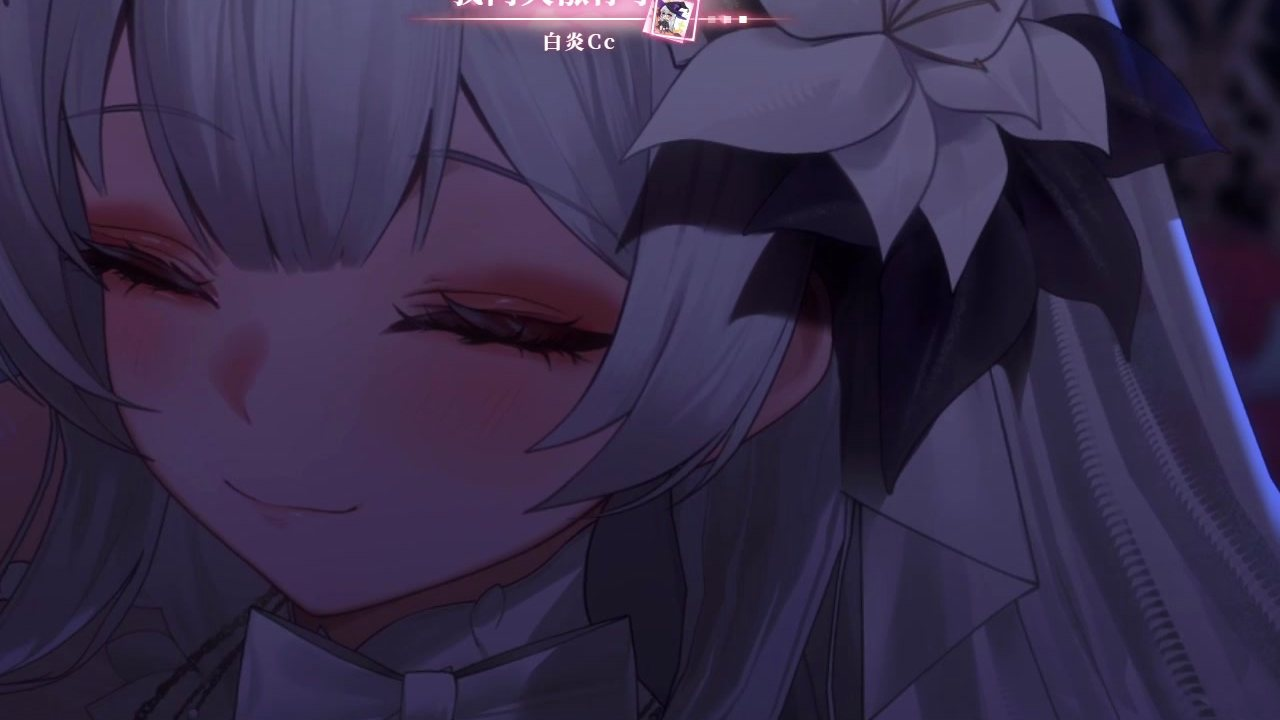
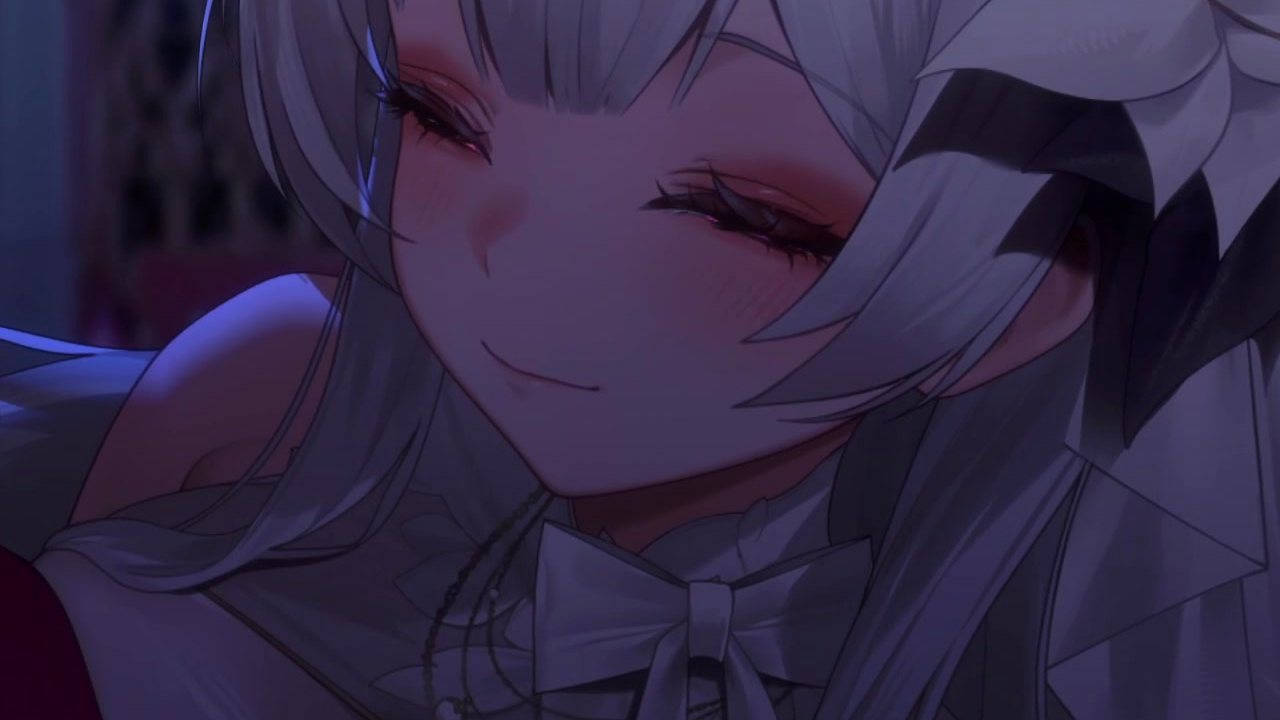
V4.7: 8 VOD CGs focused on closed eyes/low gaze

diff --git a/index.html b/index.html
@@ -120,6 +120,8 @@ img{user-select:none}
 .cg-layer[data-cg="cg_vod_4"]{background-image:url(assets/cg_vod_4.jpg)}
 .cg-layer[data-cg="cg_vod_5"]{background-image:url(assets/cg_vod_5.jpg)}
 .cg-layer[data-cg="cg_vod_6"]{background-image:url(assets/cg_vod_6.jpg)}
+.cg-layer[data-cg="cg_vod_7"]{background-image:url(assets/cg_vod_7.jpg)}
+.cg-layer[data-cg="cg_vod_8"]{background-image:url(assets/cg_vod_8.jpg)}
 .cg-layer.on{opacity:1;animation:cgZoom 9s ease-out both}
 @keyframes cgZoom{from{transform:scale(1.05)}to{transform:scale(1)}}
 .stage.cg-mode .scene,.stage.cg-mode .ambient{opacity:0}
@@ -430,10 +432,12 @@ img{user-select:none}
     <button class="cg-item" type="button" data-id="wedding"><img src="assets/f_wedding.png" alt="婚纱 · 结局"><span class="cap">婚纱 · 结局</span></button>
     <button class="cg-item" type="button" data-id="cg_vod_1"><img src="assets/cg_vod_1.jpg" alt="直播画面 · 微笑"><span class="cap">直播画面 · 微笑</span></button>
     <button class="cg-item" type="button" data-id="cg_vod_2"><img src="assets/cg_vod_2.jpg" alt="直播画面 · 闭眼"><span class="cap">直播画面 · 闭眼</span></button>
-    <button class="cg-item" type="button" data-id="cg_vod_3"><img src="assets/cg_vod_3.jpg" alt="直播画面 · 凝视"><span class="cap">直播画面 · 凝视</span></button>
+    <button class="cg-item" type="button" data-id="cg_vod_3"><img src="assets/cg_vod_3.jpg" alt="直播画面 · 低眸"><span class="cap">直播画面 · 低眸</span></button>
     <button class="cg-item" type="button" data-id="cg_vod_4"><img src="assets/cg_vod_4.jpg" alt="直播画面 · 抬眸"><span class="cap">直播画面 · 抬眸</span></button>
-    <button class="cg-item" type="button" data-id="cg_vod_5"><img src="assets/cg_vod_5.jpg" alt="直播画面 · 温柔"><span class="cap">直播画面 · 温柔</span></button>
+    <button class="cg-item" type="button" data-id="cg_vod_5"><img src="assets/cg_vod_5.jpg" alt="直播画面 · 花影"><span class="cap">直播画面 · 花影</span></button>
     <button class="cg-item" type="button" data-id="cg_vod_6"><img src="assets/cg_vod_6.jpg" alt="直播画面 · 浅笑"><span class="cap">直播画面 · 浅笑</span></button>
+    <button class="cg-item" type="button" data-id="cg_vod_7"><img src="assets/cg_vod_7.jpg" alt="直播画面 · 沉静"><span class="cap">直播画面 · 沉静</span></button>
+    <button class="cg-item" type="button" data-id="cg_vod_8"><img src="assets/cg_vod_8.jpg" alt="直播画面 · 静听"><span class="cap">直播画面 · 静听</span></button>
     <button class="cg-item emoji" type="button" data-id="emoji_smile"><img src="assets/emoji_smile.webp" alt="表情 · 微笑"><span class="cap">表情 · 微笑</span></button>
     <button class="cg-item emoji" type="button" data-id="emoji_shy"><img src="assets/emoji_shy.webp" alt="表情 · 害羞"><span class="cap">表情 · 害羞</span></button>
     <button class="cg-item emoji" type="button" data-id="emoji_laugh"><img src="assets/emoji_laugh.webp" alt="表情 · 爆笑"><span class="cap">表情 · 爆笑</span></button>
@@ -467,7 +471,7 @@ img{user-select:none}
 
   <div class="toast" id="toast" role="status" aria-live="polite"></div>
 
-<script id="story-data" type="application/json">[{"id":"start","scene":1,"spr":0,"who":"","text":"深夜十一点半，一条冷门的直播推荐把你带进了一个只有三十几个人的直播间。\n画面里，银发的女孩抱着麦克风，一只黑蝙蝠趴在她肩头，懒洋洋地打了个哈欠。","next":"open2","chapter":"序章 · 深夜的直播间"},{"id":"open2","scene":1,"spr":0,"who":"","text":"她唱完最后一句，尾音在安静的房间里飘了一会儿才落下。补光灯把她的睫毛照得很长，弹幕稀稀拉拉地滚过去。","next":"open3"},{"id":"open3","scene":1,"spr":1,"who":"綾Lune","text":"「晚上好呀……今天也有人陪我呢，阿里嘎多。」她把麦克风往怀里收了收，笑起来的时候，声音软软的。","next":"open4"},{"id":"open4","scene":1,"spr":1,"who":"綾Lune","text":"「弹幕我看看哦——」她低头凑近屏幕，忽然顿住，「呀，这个ID，我好像见过你诶。」","next":"open5"},{"id":"open5","scene":1,"spr":0,"who":"","text":"她歪了歪头，肩上的黑蝙蝠也跟着歪了歪脑袋。\n你握着手机，心跳莫名漏了一拍——她怎么会记得你？","next":"open6"},{"id":"open6","scene":1,"spr":0,"who":"","text":"弹幕里没有一个人接话。她却还保持着那个姿势，眼睛一眨不眨地看着镜头，像在等你说点什么。","next":"c1","cg":"assets/cg_vod_1.jpg"},{"id":"c1","scene":1,"spr":1,"who":"綾Lune","text":"「那个……」她托着腮，耳朵尖有点红，「要不要，先跟主播说句话呀？就一句，也可以的哦。」","choices":[{"text":"在弹幕里跟她打招呼","hp":2,"next":"c1_a1"},{"text":"默默潜水，把这首听完","hp":0,"next":"c1_b1"}]},{"id":"c1_a1","scene":1,"spr":0,"who":"","text":"你敲下一行\"晚上好，刚才那首歌很好听\"，按下发送。弹幕轻飘飘地滚过去，她却一眼就看见了。","next":"c1_a2"},{"id":"c1_a2","scene":1,"spr":1,"who":"綾Lune","text":"「哇——被夸啦！」她双手合十，笑得眼睛都弯了，「谢谢宝宝，阿里嘎多。今天没白唱呢，哈哈。」","next":"join1"},{"id":"c1_b1","scene":1,"spr":0,"who":"","text":"你把输入框里的字一个个删掉，只把音量调大了一格。\n屏幕那头，她继续唱，唱着唱着，声音忽然轻了一点。","next":"c1_b2"},{"id":"c1_b2","scene":1,"spr":1,"who":"綾Lune","text":"「今天有位观众，从头陪到尾呢。」她对着镜头笑，眼睛弯成月牙，「虽然没说话，但我看见啦。谢谢呀，下次也要来哦。」","next":"join1"},{"id":"join1","scene":1,"spr":0,"who":"","text":"下播前十分钟，她把椅子往前挪了挪，说想再念一遍弹幕。","next":"bridge1"},{"id":"bridge1","scene":1,"spr":1,"who":"綾Lune","text":"「最后再唱一首吧。你们点——」她顿了顿，伸出食指晃了晃，「不过只准点我唱得好的那几首哦，不许刁难主播。」","next":"c2"},{"id":"c2","scene":1,"spr":1,"who":"綾Lune","text":"「来嘛，宝宝，点一首呀。」她抱着麦克风，眼睛亮亮地盯着屏幕，「今天想听什么？」","choices":[{"text":"接她的梗，跟她聊起来","hp":3,"next":"c2_a1"},{"text":"认真夸她，说转音特别好听","hp":2,"next":"c2_b1"},{"text":"打趣：来都来了，投个币呗","hp":1,"next":"c2_c1"}]},{"id":"c2_a1","scene":1,"spr":0,"who":"","text":"你回了一句玩笑：\"那就点一首你唱跑调的。\"\n弹幕瞬间炸开，一排\"哈哈哈哈\"刷了满屏。","next":"c2_a2"},{"id":"c2_a2","scene":1,"spr":1,"who":"綾Lune","text":"「天呐！你、你怎么知道我会跑调呀——」她捂着嘴笑得肩膀发抖，好半天才缓过来，「呜呜，被宝宝抓到把柄啦。」","next":"c2_a3"},{"id":"c2_a3","scene":1,"spr":1,"who":"綾Lune","text":"「不行，这个仇我记下了呢。」她清了清嗓子，故意把第一个音唱歪，然后自己先笑场。\n那半分钟，直播间好像一下子暖了起来。","next":"join2"},{"id":"c2_b1","scene":1,"spr":0,"who":"","text":"你没接梗，只认认真真打下一行字：\"刚才那首，转音的地方特别好听。\"","next":"c2_b2"},{"id":"c2_b2","scene":1,"spr":1,"who":"綾Lune","text":"她盯着那行字看了两秒，耳朵慢慢红了。「……阿里嘎多。」她低头拨了拨琴弦，声音轻下来，「你听得真仔细呢。」","next":"join2"},{"id":"c2_c1","scene":1,"spr":0,"who":"","text":"你半开玩笑地打字：\"主播，来都来了，投个币能点歌吗？\"\n她先是假装板起脸，眉毛都竖起来了。","next":"c2_c2"},{"id":"c2_c2","scene":1,"spr":1,"who":"綾Lune","text":"「哈哈哈，你倒是会做生意呀。」她鼓了鼓腮帮，还是没绷住笑，「行吧，这位老板，这首送你——记得常来哦。」","next":"join2"},{"id":"join2","scene":1,"spr":1,"who":"綾Lune","text":"「好啦，今天的直播就到这里。」她关掉伴奏，冲镜头挥挥手，「晚安呀，宝宝们。」","next":"msg1","variants":[{"minHp":4,"text":"「好啦，今天的直播就到这里。」她关掉伴奏，冲镜头挥挥手，「晚安呀，宝宝们。」\n关播前她又补了一句：「明天也来哦，我等你。」"}]},{"id":"msg1","scene":2,"spr":0,"who":"","text":"下播后，你正准备关掉手机，私信栏忽然跳出一个红点。\n头像是一轮细细的月亮。","next":"msg2"},{"id":"msg2","scene":2,"spr":0,"who":"","text":"是綾Lune：「今天谢谢你呀，还没睡吗？」","next":"msg3"},{"id":"msg3","scene":2,"spr":1,"who":"綾Lune","text":"你回了句\"睡不着\"。对面几乎秒回：「那正好，我也睡不着呢。陪我说说话，好不好？」","next":"c3","variants":[{"minHp":4,"text":"你回了句\"睡不着\"。对面几乎秒回：「那正好，我也睡不着呢。陪我说说话，好不好？」\n「其实我在等的人，好像一直都是你。」"},{"maxHp":1,"text":"你回了句\"睡不着\"。对面几乎秒回：「那正好，我也睡不着呢。陪我说说话，好不好？」\n对面安静了一会儿，才发来一句：「……要是不方便的话，也不用勉强。」"}]},{"id":"c3","scene":2,"spr":1,"who":"綾Lune","text":"「我啊……其实每天下播都睡不着呢。」她发来一条语音，背景里只有很轻的电流声，「灯一关，房间就好安静好安静，安静得吓人。」","choices":[{"text":"温柔地接住她的每一句话","hp":4,"next":"c3_a1"},{"text":"适当保持一点距离","hp":1,"next":"c3_b1"},{"text":"略带暧昧地试探一句","hp":3,"next":"c3_c1"}]},{"id":"c3_a1","scene":2,"spr":0,"who":"","text":"你一句一句地回她。她说直播间的压力，说那些没人听她唱歌的晚上，说肩头那只叫\"小蝠\"的黑蝙蝠。","next":"c3_a2"},{"id":"c3_a2","scene":2,"spr":1,"who":"綾Lune","text":"「其实我不太敢跟别人说这些的。」她打字打得很慢，「但是跟你说，好像没关系呢。」","next":"c3_a3"},{"id":"c3_a3","scene":2,"spr":1,"who":"綾Lune","text":"过了很久，她发来一句：「……你真好。」\n隔了几秒，又补上一句：「要是你能一直听我说话，就好了。」","next":"join3"},{"id":"c3_b1","scene":2,"spr":0,"who":"","text":"你回得不快不慢，斟酌着每一句话，连\"早点休息\"都写得客客气气。","next":"c3_b2"},{"id":"c3_b2","scene":2,"spr":1,"who":"綾Lune","text":"「……好呀，那不打扰你啦。」她回得很快，快得像是早就准备好了这句话。\n那个红点安静下去，像一盏被人关掉的灯。","next":"join3"},{"id":"c3_c1","scene":2,"spr":0,"who":"","text":"你半开玩笑地问：\"那我算不算你的特别观众？\"\n输入框上方\"对方正在输入\"亮了又灭，灭了又亮。","next":"c3_c2"},{"id":"c3_c2","scene":2,"spr":1,"who":"綾Lune","text":"「别、别撩我呀……」她发来一个慌乱的系统表情。\n过了一会儿，又补上一句：「……不过，我不讨厌呢。」","next":"join3"},{"id":"join3","scene":2,"spr":0,"who":"","text":"那天之后，你开始留意她开播的时间。\n像是有一根很细的线，把深夜的两端连在了一起。","next":"daily1","chapter":"第一幕 · 私信里的她"},{"id":"daily1","scene":1,"spr":1,"who":"","text":"之后的几个晚上，你几乎都准时出现。\n她开始在开播前给你发一句：「今天也来吗？」","next":"daily2"},{"id":"daily2","scene":2,"spr":1,"who":"綾Lune","text":"「要是哪天你没来……」某次下播后，她忽然说，「我可能会对着空直播间，唱一整晚呢。」\n她说完自己先笑了，但你看得出来，她不是在开玩笑。","next":"d0","variants":[{"minHp":8,"text":"「要是哪天你没来……」某次下播后，她忽然说，「我可能会对着空直播间，唱一整晚呢。」\n她说完自己先笑了，但你看得出来，她不是在开玩笑。\n她顿了顿，又发来一段语音，声音压得很低：「……所以你要是来，记得在弹幕里叫一声我的名字，好不好？」"},{"maxHp":4,"text":"「要是哪天你没来……」某次下播后，她忽然说，「我可能会对着空直播间，唱一整晚呢。」\n她说完自己先笑了，可那笑声很快就停住。「……算了，你就当我随便说说。」"}]},{"id":"d0","scene":2,"spr":0,"who":"","text":"几天后，她发来一条直播预告：周末想找个人连麦，一起唱几首歌。","next":"d1","chapter":"第二幕 · 连麦之夜"},{"id":"d1","scene":1,"spr":0,"who":"","text":"到了那晚，直播间的人比平时多得多。弹幕刷得飞快，她却一条也没有念。","next":"d1b","variants":[{"minHp":6,"text":"到了那晚，直播间的人比平时多得多。弹幕刷得飞快，她却一条也没有念。\n有人问她在等谁，她只是笑，没有回答。"},{"maxHp":3,"text":"到了那晚，直播间的人比平时多得多。弹幕刷得飞快，她念了几条，又很快放下手机。\n像是在确认某个名字有没有出现。"}]},{"id":"d1b","scene":1,"spr":0,"who":"","text":"你在私信里看见她发来两个字：「你来吗？」后面跟着一个小小的月亮表情。","next":"d2"},{"id":"d2","scene":1,"spr":1,"who":"綾Lune","text":"「不着急哦，我等你。」她嘴上这么说，尾音却越拖越短，「要是……你不想来，也没关系的啦。」","next":"c4","variants":[{"minHp":6,"text":"「不着急哦，我等你。」她嘴上这么说，尾音却越拖越短，「要是……你不想来，也没关系的啦。」\n她说完又立刻补一句：「啊、我不是在催你哦！真的！」"},{"maxHp":3,"text":"「不着急哦，我等你。」她嘴上这么说，尾音却越拖越短，「要是……你不想来，也没关系的啦。」\n那句“没关系的啦”后面，隔了很久才跟上一个句号。"}]},{"id":"c4","scene":1,"spr":1,"who":"綾Lune","text":"屏幕上，连麦的邀请框亮着。她安静地坐在镜头前，手指一下一下地敲着桌面。","choices":[{"text":"答应，为她准备一下","hp":3,"next":"c4_a1"},{"text":"有点犹豫，婉拒了","hp":1,"next":"c4_b1"}]},{"id":"c4_a1","scene":1,"spr":0,"who":"","text":"你答应下来，翻出她唱过的所有歌单，把最喜欢的那几首悄悄练了一遍。","next":"c4_a2"},{"id":"c4_a2","scene":1,"spr":1,"who":"綾Lune","text":"连麦那晚，她唱了一首很温柔的歌给你听。\n结束后她小声问：「下次……还能找你吗？」你说可以，她笑得像偷偷藏了颗糖。","next":"join4"},{"id":"c4_b1","scene":1,"spr":0,"who":"","text":"你回了句\"那天可能有事\"，她的\"正在输入\"亮了很久，最后只发来一句「嗯，我懂的。」","next":"c4_b2"},{"id":"c4_b2","scene":1,"spr":0,"who":"","text":"那晚的连麦，她一个人唱到了最后。\n下播后，她给你发消息的次数，明显少了一些。","next":"join4"},{"id":"join4","scene":1,"spr":0,"who":"","text":"那段时间，你们之间好像多了一点只有彼此知道的默契。","next":"post1","variants":[{"minHp":6,"text":"那段时间，你们之间好像多了一点只有彼此知道的默契。\n回房间之后，你把那一晚的录播翻出来看了两遍。"},{"maxHp":2,"text":"那段时间，你们之间好像多了一点说不清的距离。\n你偶尔会想起她敲桌面的那一下一下，却想不起自己当时该说什么。"}]},{"id":"post1","scene":2,"spr":1,"who":"","text":"那之后，她给你寄来一张明信片。背面是手写的地址，和一句话：「谢谢你愿意听我唱歌。」\n邮戳上的日期，是你第一次进她直播间的那个星期。","next":"post2"},{"id":"post2","scene":2,"spr":1,"who":"綾Lune","text":"「收到啦？」当晚她私信你，语气装作不在意，「……别笑我字丑哦。我还画了一只小蝠，你认出来没有？」","next":"e1","variants":[{"minHp":10,"text":"「收到啦？」当晚她私信你，语气装作不在意，「……别笑我字丑哦。我还画了一只小蝠，你认出来没有？」\n「对了，邮局的人问我寄给谁，我说——寄给一个会听我唱歌的人。」"}]},{"id":"e1","scene":1,"spr":0,"who":"","text":"转折发生在一个很平常的晚上。\n你在她的弹幕里随口提了一句别的主播的名字，说那边也在唱歌，\"还挺好听的\"。","next":"e1b","chapter":"第三幕 · 不经意的名字"},{"id":"e1b","scene":1,"spr":0,"who":"","text":"弹幕里有人跟着起哄，说\"别家确实更好听\"。她握着麦克风的手，停在了半空。","next":"e2"},{"id":"e2","scene":1,"spr":0,"who":"","text":"弹幕区安静了三秒。\n她低头调了调麦克风，指节在灯光下泛着白。","next":"e3"},{"id":"e3","scene":1,"spr":1,"who":"綾Lune","text":"「……这样啊。」她笑了一下，没有接话，唱完了整首歌。\n声音比平时低了很多。","next":"c5"},{"id":"c5","scene":2,"spr":1,"who":"綾Lune","text":"下播后，她私信你：「你……喜欢看别人的直播吗？」\n句尾没有语气词。那条消息的\"正在输入\"，删删改改了很久。","choices":[{"text":"顺着她，赶紧道歉哄她","hp":3,"next":"c5_a1"},{"text":"觉得气氛不对，想拉开距离","hp":1,"next":"c5_b1"},{"text":"冷静地讲道理：观众是自由的","hp":0,"next":"c5_c1"}]},{"id":"c5_a1","scene":2,"spr":0,"who":"","text":"你立刻道歉，说只是随口一提，屏幕这边你只看着她一个人。","next":"c5_a2"},{"id":"c5_a2","scene":2,"spr":1,"who":"綾Lune","text":"她闷了很久，才回：「……我不许你看别人。」\n过了一会儿又软下来，「只准看我，好不好呀？我、我会一直唱给你听的。」","next":"join5"},{"id":"c5_b1","scene":2,"spr":0,"who":"","text":"你回了句\"别想太多，我只听歌\"，然后把手机扣在桌上。","next":"c5_b2"},{"id":"c5_b2","scene":2,"spr":1,"who":"綾Lune","text":"她安静了很久，久到你以为她睡了，才等来一句：「……好，我知道了。」\n那之后她照常开播，只是不再喊你的ID，也不再主动私信你。","next":"join5"},{"id":"c5_c1","scene":2,"spr":0,"who":"","text":"你认真解释，喜欢听谁唱歌是你的自由，希望她不要多想。","next":"c5_c2"},{"id":"c5_c2","scene":2,"spr":1,"who":"綾Lune","text":"她只回了一个「嗯」。\n可那之后，她的直播间在深夜还亮着灯，却不再喊你的ID了。","next":"join5"},{"id":"join5","scene":1,"spr":0,"who":"","text":"又一场深夜直播。这一次，她没有唱歌。","next":"f1","variants":[{"minHp":10,"text":"又一场深夜直播。这一次，她没有唱歌。\n镜头里的她把下巴抵在麦克风上，抱膝坐着，像在等你先开口。"},{"maxHp":5,"text":"又一场深夜直播。这一次，她没有唱歌。\n她安静地坐在镜头前，偶尔看一眼私信列表，又很快移开视线。"}],"chapter":"终幕 · 摊牌前夜","cg":"assets/cg_vod_3.jpg"},{"id":"f1","scene":2,"spr":0,"who":"","text":"下播后，她发来一条语音：「……能留一下吗？我有话想说。」","next":"f2","variants":[{"minHp":8,"text":"下播后，她发来一条语音：「……能留一下吗？我有话想说。」\n语音里很安静，安静得能听见她几次想开口、又停下来。"},{"maxHp":3,"text":"下播后，她发来一条语音：「……能留一下吗？我有话想说。」\n语音只有十秒，末尾是长长的一段沉默。"}],"cg":"assets/cg_vod_4.jpg"},{"id":"f2","scene":2,"spr":1,"who":"綾Lune","text":"语音的背景音里，那只黑蝙蝠轻轻叫了一声。「我大概知道，这样不对呢。」她顿了顿。","next":"f3","variants":[{"minHp":8,"text":"语音的背景音里，那只黑蝙蝠轻轻叫了一声。「我大概知道，这样不对呢。」她顿了顿。\n「我先说好，我不是在怪你。」"},{"maxHp":3,"text":"语音的背景音里，那只黑蝙蝠轻轻叫了一声。「我大概知道，这样不对呢。」她顿了顿。\n「……算了，可能是我太贪心了。」"}]},{"id":"f3","scene":2,"spr":1,"who":"綾Lune","text":"「可是我一想到你在别人的直播间里，我就……我就唱不下去呀。」她吸了吸鼻子，「对不起，我是不是很奇怪？」","next":"c6","variants":[{"minHp":11,"text":"「可是我一想到你在别人的直播间里，我就……我就唱不下去呀。」她吸了吸鼻子，「对不起，我是不是很奇怪？」\n「我不太会说好听的话……」她的声音闷闷的，「但我是真的，很想留住你。」"},{"maxHp":5,"text":"「可是我一想到你在别人的直播间里，我就……我就唱不下去呀。」她吸了吸鼻子，「对不起，我是不是很奇怪？」\n「如果……如果你其实没有那么多话想跟我说，也没关系的。」"}]},{"id":"c6","scene":2,"spr":1,"who":"綾Lune","text":"「那你呢？」她沉默了很久，声音轻得像怕惊动什么，「你要怎么选。」","choices":[{"text":"把心意说开，认真面对她","hp":0,"route":"talk","next":"route_talk_1"},{"text":"答应她：以后只来你的直播间","hp":0,"route":"stay","next":"route_stay_1"},{"text":"说一句抱歉，然后退出这场纠缠","hp":0,"route":"flee","next":"route_flee_1"}]},{"id":"route_talk_1","scene":2,"spr":0,"who":"","text":"你深吸一口气，把藏了很久的话一句一句说出口。\n屏幕那头安静得能听见电流的细响。","next":"route_talk_2","variants":[{"minHp":10,"text":"你深吸一口气，把藏了很久的话一句一句说出口。\n屏幕那头安静得能听见电流的细响。\n说到一半你停了停，怕自己说得太多。"},{"maxHp":5,"text":"你深吸一口气，把藏了很久的话一句一句说出口。\n屏幕那头安静得能听见电流的细响。\n话一出口，你就有点后悔——她好像比你更先一步低下了头。"}],"cg":"assets/cg_vod_5.jpg"},{"id":"route_talk_2","scene":2,"spr":1,"who":"綾Lune","text":"「……你说真的呀？」她的声音有一点发抖，\n「我、我一直以为，只有我一个人在偷偷喜欢呢。」\n她顿了顿，又轻轻补了一句：「这次……换我先说，好不好？」","next":"__ending__","variants":[{"minHp":13,"text":"「……你说真的呀？」她的声音有一点发抖，\n「我、我一直以为，只有我一个人在偷偷喜欢呢。」\n她顿了顿，又轻轻补了一句：「这次……换我先说，好不好？」\n她说着说着，声音越来越小，最后小声补了一句：「……不许笑我。」"}]},{"id":"route_stay_1","scene":2,"spr":0,"who":"","text":"你说，以后只来她的直播间。\n她愣了很长一会儿，然后终于笑起来，眼睛弯弯的。","next":"route_stay_2","variants":[{"minHp":10,"text":"你说，以后只来她的直播间。\n她愣了很长一会儿，然后终于笑起来，眼睛弯弯的。\n你说这话的时候，自己也有点意外。"},{"maxHp":5,"text":"你说，以后只来她的直播间。\n她愣了很长一会儿，然后终于笑起来，眼睛弯弯的。\n她笑了，可你分不清那是开心，还是终于松了一口气。"}],"cg":"assets/cg_vod_6.jpg"},{"id":"route_stay_2","scene":2,"spr":1,"who":"綾Lune","text":"「那说好了哦。」她伸出小指，对着镜头晃了晃，\n「拉钩。骗人的话……我会难过的呀。」\n直播结束后，她把拉过钩的那只手贴在胸口，很久都没有放下。","next":"__ending__","variants":[{"minHp":13,"text":"「那说好了哦。」她伸出小指，对着镜头晃了晃，\n「拉钩。骗人的话……我会难过的呀。」\n直播结束后，她把拉过钩的那只手贴在胸口，很久都没有放下。\n她偷偷把这一晚的录播存了下来，文件名是「不能说的今天」。"}]},{"id":"route_flee_1","scene":2,"spr":0,"who":"","text":"你打下一句\"抱歉\"，然后按灭了屏幕。\n黑暗里，那轮细细的月亮还亮着。","next":"route_flee_2","variants":[{"minHp":10,"text":"你打下一句\"抱歉\"，然后按灭了屏幕。\n黑暗里，那轮细细的月亮还亮着。\n按灭之前，你看见她的头像还亮着，输入框亮了一下，又暗下去。"},{"maxHp":5,"text":"你打下一句\"抱歉\"，然后按灭了屏幕。\n黑暗里，那轮细细的月亮还亮着。\n你盯着黑掉的屏幕看了很久，才想起该把手机放下。"}],"cg":"assets/cg_vod_2.jpg"},{"id":"route_flee_2","scene":2,"spr":0,"who":"","text":"后来你换了一个新账号。\n她的直播间还是深夜亮着灯，只是你再也没有点进去过。\n再后来，你习惯了新的深夜。","next":"__ending__","variants":[{"minHp":10,"text":"后来你换了一个新账号。\n她的直播间还是深夜亮着灯，只是你再也没有点进去过。\n再后来，你习惯了新的深夜。\n后半夜，你收到她发来的一条语音。只有三秒，是她在轻轻哼那首没唱完的歌。"}]},{"id":"__ending__","final":true}]</script>
+<script id="story-data" type="application/json">[{"id":"start","scene":1,"spr":0,"who":"","text":"深夜十一点半，一条冷门的直播推荐把你带进了一个只有三十几个人的直播间。\n画面里，银发的女孩抱着麦克风，一只黑蝙蝠趴在她肩头，懒洋洋地打了个哈欠。","next":"open2","chapter":"序章 · 深夜的直播间"},{"id":"open2","scene":1,"spr":0,"who":"","text":"她唱完最后一句，尾音在安静的房间里飘了一会儿才落下。补光灯把她的睫毛照得很长，弹幕稀稀拉拉地滚过去。","next":"open3","cg":"assets/cg_vod_8.jpg"},{"id":"open3","scene":1,"spr":1,"who":"綾Lune","text":"「晚上好呀……今天也有人陪我呢，阿里嘎多。」她把麦克风往怀里收了收，笑起来的时候，声音软软的。","next":"open4"},{"id":"open4","scene":1,"spr":1,"who":"綾Lune","text":"「弹幕我看看哦——」她低头凑近屏幕，忽然顿住，「呀，这个ID，我好像见过你诶。」","next":"open5"},{"id":"open5","scene":1,"spr":0,"who":"","text":"她歪了歪头，肩上的黑蝙蝠也跟着歪了歪脑袋。\n你握着手机，心跳莫名漏了一拍——她怎么会记得你？","next":"open6"},{"id":"open6","scene":1,"spr":0,"who":"","text":"弹幕里没有一个人接话。她却还保持着那个姿势，眼睛一眨不眨地看着镜头，像在等你说点什么。","next":"c1","cg":"assets/cg_vod_1.jpg"},{"id":"c1","scene":1,"spr":1,"who":"綾Lune","text":"「那个……」她托着腮，耳朵尖有点红，「要不要，先跟主播说句话呀？就一句，也可以的哦。」","choices":[{"text":"在弹幕里跟她打招呼","hp":2,"next":"c1_a1"},{"text":"默默潜水，把这首听完","hp":0,"next":"c1_b1"}]},{"id":"c1_a1","scene":1,"spr":0,"who":"","text":"你敲下一行\"晚上好，刚才那首歌很好听\"，按下发送。弹幕轻飘飘地滚过去，她却一眼就看见了。","next":"c1_a2"},{"id":"c1_a2","scene":1,"spr":1,"who":"綾Lune","text":"「哇——被夸啦！」她双手合十，笑得眼睛都弯了，「谢谢宝宝，阿里嘎多。今天没白唱呢，哈哈。」","next":"join1"},{"id":"c1_b1","scene":1,"spr":0,"who":"","text":"你把输入框里的字一个个删掉，只把音量调大了一格。\n屏幕那头，她继续唱，唱着唱着，声音忽然轻了一点。","next":"c1_b2"},{"id":"c1_b2","scene":1,"spr":1,"who":"綾Lune","text":"「今天有位观众，从头陪到尾呢。」她对着镜头笑，眼睛弯成月牙，「虽然没说话，但我看见啦。谢谢呀，下次也要来哦。」","next":"join1"},{"id":"join1","scene":1,"spr":0,"who":"","text":"下播前十分钟，她把椅子往前挪了挪，说想再念一遍弹幕。","next":"bridge1"},{"id":"bridge1","scene":1,"spr":1,"who":"綾Lune","text":"「最后再唱一首吧。你们点——」她顿了顿，伸出食指晃了晃，「不过只准点我唱得好的那几首哦，不许刁难主播。」","next":"c2"},{"id":"c2","scene":1,"spr":1,"who":"綾Lune","text":"「来嘛，宝宝，点一首呀。」她抱着麦克风，眼睛亮亮地盯着屏幕，「今天想听什么？」","choices":[{"text":"接她的梗，跟她聊起来","hp":3,"next":"c2_a1"},{"text":"认真夸她，说转音特别好听","hp":2,"next":"c2_b1"},{"text":"打趣：来都来了，投个币呗","hp":1,"next":"c2_c1"}]},{"id":"c2_a1","scene":1,"spr":0,"who":"","text":"你回了一句玩笑：\"那就点一首你唱跑调的。\"\n弹幕瞬间炸开，一排\"哈哈哈哈\"刷了满屏。","next":"c2_a2"},{"id":"c2_a2","scene":1,"spr":1,"who":"綾Lune","text":"「天呐！你、你怎么知道我会跑调呀——」她捂着嘴笑得肩膀发抖，好半天才缓过来，「呜呜，被宝宝抓到把柄啦。」","next":"c2_a3"},{"id":"c2_a3","scene":1,"spr":1,"who":"綾Lune","text":"「不行，这个仇我记下了呢。」她清了清嗓子，故意把第一个音唱歪，然后自己先笑场。\n那半分钟，直播间好像一下子暖了起来。","next":"join2"},{"id":"c2_b1","scene":1,"spr":0,"who":"","text":"你没接梗，只认认真真打下一行字：\"刚才那首，转音的地方特别好听。\"","next":"c2_b2"},{"id":"c2_b2","scene":1,"spr":1,"who":"綾Lune","text":"她盯着那行字看了两秒，耳朵慢慢红了。「……阿里嘎多。」她低头拨了拨琴弦，声音轻下来，「你听得真仔细呢。」","next":"join2"},{"id":"c2_c1","scene":1,"spr":0,"who":"","text":"你半开玩笑地打字：\"主播，来都来了，投个币能点歌吗？\"\n她先是假装板起脸，眉毛都竖起来了。","next":"c2_c2"},{"id":"c2_c2","scene":1,"spr":1,"who":"綾Lune","text":"「哈哈哈，你倒是会做生意呀。」她鼓了鼓腮帮，还是没绷住笑，「行吧，这位老板，这首送你——记得常来哦。」","next":"join2"},{"id":"join2","scene":1,"spr":1,"who":"綾Lune","text":"「好啦，今天的直播就到这里。」她关掉伴奏，冲镜头挥挥手，「晚安呀，宝宝们。」","next":"msg1","variants":[{"minHp":4,"text":"「好啦，今天的直播就到这里。」她关掉伴奏，冲镜头挥挥手，「晚安呀，宝宝们。」\n关播前她又补了一句：「明天也来哦，我等你。」"}]},{"id":"msg1","scene":2,"spr":0,"who":"","text":"下播后，你正准备关掉手机，私信栏忽然跳出一个红点。\n头像是一轮细细的月亮。","next":"msg2"},{"id":"msg2","scene":2,"spr":0,"who":"","text":"是綾Lune：「今天谢谢你呀，还没睡吗？」","next":"msg3","cg":"assets/cg_vod_7.jpg"},{"id":"msg3","scene":2,"spr":1,"who":"綾Lune","text":"你回了句\"睡不着\"。对面几乎秒回：「那正好，我也睡不着呢。陪我说说话，好不好？」","next":"c3","variants":[{"minHp":4,"text":"你回了句\"睡不着\"。对面几乎秒回：「那正好，我也睡不着呢。陪我说说话，好不好？」\n「其实我在等的人，好像一直都是你。」"},{"maxHp":1,"text":"你回了句\"睡不着\"。对面几乎秒回：「那正好，我也睡不着呢。陪我说说话，好不好？」\n对面安静了一会儿，才发来一句：「……要是不方便的话，也不用勉强。」"}]},{"id":"c3","scene":2,"spr":1,"who":"綾Lune","text":"「我啊……其实每天下播都睡不着呢。」她发来一条语音，背景里只有很轻的电流声，「灯一关，房间就好安静好安静，安静得吓人。」","choices":[{"text":"温柔地接住她的每一句话","hp":4,"next":"c3_a1"},{"text":"适当保持一点距离","hp":1,"next":"c3_b1"},{"text":"略带暧昧地试探一句","hp":3,"next":"c3_c1"}]},{"id":"c3_a1","scene":2,"spr":0,"who":"","text":"你一句一句地回她。她说直播间的压力，说那些没人听她唱歌的晚上，说肩头那只叫\"小蝠\"的黑蝙蝠。","next":"c3_a2"},{"id":"c3_a2","scene":2,"spr":1,"who":"綾Lune","text":"「其实我不太敢跟别人说这些的。」她打字打得很慢，「但是跟你说，好像没关系呢。」","next":"c3_a3"},{"id":"c3_a3","scene":2,"spr":1,"who":"綾Lune","text":"过了很久，她发来一句：「……你真好。」\n隔了几秒，又补上一句：「要是你能一直听我说话，就好了。」","next":"join3"},{"id":"c3_b1","scene":2,"spr":0,"who":"","text":"你回得不快不慢，斟酌着每一句话，连\"早点休息\"都写得客客气气。","next":"c3_b2"},{"id":"c3_b2","scene":2,"spr":1,"who":"綾Lune","text":"「……好呀，那不打扰你啦。」她回得很快，快得像是早就准备好了这句话。\n那个红点安静下去，像一盏被人关掉的灯。","next":"join3"},{"id":"c3_c1","scene":2,"spr":0,"who":"","text":"你半开玩笑地问：\"那我算不算你的特别观众？\"\n输入框上方\"对方正在输入\"亮了又灭，灭了又亮。","next":"c3_c2"},{"id":"c3_c2","scene":2,"spr":1,"who":"綾Lune","text":"「别、别撩我呀……」她发来一个慌乱的系统表情。\n过了一会儿，又补上一句：「……不过，我不讨厌呢。」","next":"join3"},{"id":"join3","scene":2,"spr":0,"who":"","text":"那天之后，你开始留意她开播的时间。\n像是有一根很细的线，把深夜的两端连在了一起。","next":"daily1","chapter":"第一幕 · 私信里的她"},{"id":"daily1","scene":1,"spr":1,"who":"","text":"之后的几个晚上，你几乎都准时出现。\n她开始在开播前给你发一句：「今天也来吗？」","next":"daily2"},{"id":"daily2","scene":2,"spr":1,"who":"綾Lune","text":"「要是哪天你没来……」某次下播后，她忽然说，「我可能会对着空直播间，唱一整晚呢。」\n她说完自己先笑了，但你看得出来，她不是在开玩笑。","next":"d0","variants":[{"minHp":8,"text":"「要是哪天你没来……」某次下播后，她忽然说，「我可能会对着空直播间，唱一整晚呢。」\n她说完自己先笑了，但你看得出来，她不是在开玩笑。\n她顿了顿，又发来一段语音，声音压得很低：「……所以你要是来，记得在弹幕里叫一声我的名字，好不好？」"},{"maxHp":4,"text":"「要是哪天你没来……」某次下播后，她忽然说，「我可能会对着空直播间，唱一整晚呢。」\n她说完自己先笑了，可那笑声很快就停住。「……算了，你就当我随便说说。」"}]},{"id":"d0","scene":2,"spr":0,"who":"","text":"几天后，她发来一条直播预告：周末想找个人连麦，一起唱几首歌。","next":"d1","chapter":"第二幕 · 连麦之夜"},{"id":"d1","scene":1,"spr":0,"who":"","text":"到了那晚，直播间的人比平时多得多。弹幕刷得飞快，她却一条也没有念。","next":"d1b","variants":[{"minHp":6,"text":"到了那晚，直播间的人比平时多得多。弹幕刷得飞快，她却一条也没有念。\n有人问她在等谁，她只是笑，没有回答。"},{"maxHp":3,"text":"到了那晚，直播间的人比平时多得多。弹幕刷得飞快，她念了几条，又很快放下手机。\n像是在确认某个名字有没有出现。"}]},{"id":"d1b","scene":1,"spr":0,"who":"","text":"你在私信里看见她发来两个字：「你来吗？」后面跟着一个小小的月亮表情。","next":"d2"},{"id":"d2","scene":1,"spr":1,"who":"綾Lune","text":"「不着急哦，我等你。」她嘴上这么说，尾音却越拖越短，「要是……你不想来，也没关系的啦。」","next":"c4","variants":[{"minHp":6,"text":"「不着急哦，我等你。」她嘴上这么说，尾音却越拖越短，「要是……你不想来，也没关系的啦。」\n她说完又立刻补一句：「啊、我不是在催你哦！真的！」"},{"maxHp":3,"text":"「不着急哦，我等你。」她嘴上这么说，尾音却越拖越短，「要是……你不想来，也没关系的啦。」\n那句“没关系的啦”后面，隔了很久才跟上一个句号。"}]},{"id":"c4","scene":1,"spr":1,"who":"綾Lune","text":"屏幕上，连麦的邀请框亮着。她安静地坐在镜头前，手指一下一下地敲着桌面。","choices":[{"text":"答应，为她准备一下","hp":3,"next":"c4_a1"},{"text":"有点犹豫，婉拒了","hp":1,"next":"c4_b1"}]},{"id":"c4_a1","scene":1,"spr":0,"who":"","text":"你答应下来，翻出她唱过的所有歌单，把最喜欢的那几首悄悄练了一遍。","next":"c4_a2"},{"id":"c4_a2","scene":1,"spr":1,"who":"綾Lune","text":"连麦那晚，她唱了一首很温柔的歌给你听。\n结束后她小声问：「下次……还能找你吗？」你说可以，她笑得像偷偷藏了颗糖。","next":"join4"},{"id":"c4_b1","scene":1,"spr":0,"who":"","text":"你回了句\"那天可能有事\"，她的\"正在输入\"亮了很久，最后只发来一句「嗯，我懂的。」","next":"c4_b2"},{"id":"c4_b2","scene":1,"spr":0,"who":"","text":"那晚的连麦，她一个人唱到了最后。\n下播后，她给你发消息的次数，明显少了一些。","next":"join4"},{"id":"join4","scene":1,"spr":0,"who":"","text":"那段时间，你们之间好像多了一点只有彼此知道的默契。","next":"post1","variants":[{"minHp":6,"text":"那段时间，你们之间好像多了一点只有彼此知道的默契。\n回房间之后，你把那一晚的录播翻出来看了两遍。"},{"maxHp":2,"text":"那段时间，你们之间好像多了一点说不清的距离。\n你偶尔会想起她敲桌面的那一下一下，却想不起自己当时该说什么。"}]},{"id":"post1","scene":2,"spr":1,"who":"","text":"那之后，她给你寄来一张明信片。背面是手写的地址，和一句话：「谢谢你愿意听我唱歌。」\n邮戳上的日期，是你第一次进她直播间的那个星期。","next":"post2"},{"id":"post2","scene":2,"spr":1,"who":"綾Lune","text":"「收到啦？」当晚她私信你，语气装作不在意，「……别笑我字丑哦。我还画了一只小蝠，你认出来没有？」","next":"e1","variants":[{"minHp":10,"text":"「收到啦？」当晚她私信你，语气装作不在意，「……别笑我字丑哦。我还画了一只小蝠，你认出来没有？」\n「对了，邮局的人问我寄给谁，我说——寄给一个会听我唱歌的人。」"}]},{"id":"e1","scene":1,"spr":0,"who":"","text":"转折发生在一个很平常的晚上。\n你在她的弹幕里随口提了一句别的主播的名字，说那边也在唱歌，\"还挺好听的\"。","next":"e1b","chapter":"第三幕 · 不经意的名字"},{"id":"e1b","scene":1,"spr":0,"who":"","text":"弹幕里有人跟着起哄，说\"别家确实更好听\"。她握着麦克风的手，停在了半空。","next":"e2"},{"id":"e2","scene":1,"spr":0,"who":"","text":"弹幕区安静了三秒。\n她低头调了调麦克风，指节在灯光下泛着白。","next":"e3"},{"id":"e3","scene":1,"spr":1,"who":"綾Lune","text":"「……这样啊。」她笑了一下，没有接话，唱完了整首歌。\n声音比平时低了很多。","next":"c5"},{"id":"c5","scene":2,"spr":1,"who":"綾Lune","text":"下播后，她私信你：「你……喜欢看别人的直播吗？」\n句尾没有语气词。那条消息的\"正在输入\"，删删改改了很久。","choices":[{"text":"顺着她，赶紧道歉哄她","hp":3,"next":"c5_a1"},{"text":"觉得气氛不对，想拉开距离","hp":1,"next":"c5_b1"},{"text":"冷静地讲道理：观众是自由的","hp":0,"next":"c5_c1"}]},{"id":"c5_a1","scene":2,"spr":0,"who":"","text":"你立刻道歉，说只是随口一提，屏幕这边你只看着她一个人。","next":"c5_a2"},{"id":"c5_a2","scene":2,"spr":1,"who":"綾Lune","text":"她闷了很久，才回：「……我不许你看别人。」\n过了一会儿又软下来，「只准看我，好不好呀？我、我会一直唱给你听的。」","next":"join5"},{"id":"c5_b1","scene":2,"spr":0,"who":"","text":"你回了句\"别想太多，我只听歌\"，然后把手机扣在桌上。","next":"c5_b2"},{"id":"c5_b2","scene":2,"spr":1,"who":"綾Lune","text":"她安静了很久，久到你以为她睡了，才等来一句：「……好，我知道了。」\n那之后她照常开播，只是不再喊你的ID，也不再主动私信你。","next":"join5"},{"id":"c5_c1","scene":2,"spr":0,"who":"","text":"你认真解释，喜欢听谁唱歌是你的自由，希望她不要多想。","next":"c5_c2"},{"id":"c5_c2","scene":2,"spr":1,"who":"綾Lune","text":"她只回了一个「嗯」。\n可那之后，她的直播间在深夜还亮着灯，却不再喊你的ID了。","next":"join5"},{"id":"join5","scene":1,"spr":0,"who":"","text":"又一场深夜直播。这一次，她没有唱歌。","next":"f1","variants":[{"minHp":10,"text":"又一场深夜直播。这一次，她没有唱歌。\n镜头里的她把下巴抵在麦克风上，抱膝坐着，像在等你先开口。"},{"maxHp":5,"text":"又一场深夜直播。这一次，她没有唱歌。\n她安静地坐在镜头前，偶尔看一眼私信列表，又很快移开视线。"}],"chapter":"终幕 · 摊牌前夜","cg":"assets/cg_vod_3.jpg"},{"id":"f1","scene":2,"spr":0,"who":"","text":"下播后，她发来一条语音：「……能留一下吗？我有话想说。」","next":"f2","variants":[{"minHp":8,"text":"下播后，她发来一条语音：「……能留一下吗？我有话想说。」\n语音里很安静，安静得能听见她几次想开口、又停下来。"},{"maxHp":3,"text":"下播后，她发来一条语音：「……能留一下吗？我有话想说。」\n语音只有十秒，末尾是长长的一段沉默。"}],"cg":"assets/cg_vod_4.jpg"},{"id":"f2","scene":2,"spr":1,"who":"綾Lune","text":"语音的背景音里，那只黑蝙蝠轻轻叫了一声。「我大概知道，这样不对呢。」她顿了顿。","next":"f3","variants":[{"minHp":8,"text":"语音的背景音里，那只黑蝙蝠轻轻叫了一声。「我大概知道，这样不对呢。」她顿了顿。\n「我先说好，我不是在怪你。」"},{"maxHp":3,"text":"语音的背景音里，那只黑蝙蝠轻轻叫了一声。「我大概知道，这样不对呢。」她顿了顿。\n「……算了，可能是我太贪心了。」"}]},{"id":"f3","scene":2,"spr":1,"who":"綾Lune","text":"「可是我一想到你在别人的直播间里，我就……我就唱不下去呀。」她吸了吸鼻子，「对不起，我是不是很奇怪？」","next":"c6","variants":[{"minHp":11,"text":"「可是我一想到你在别人的直播间里，我就……我就唱不下去呀。」她吸了吸鼻子，「对不起，我是不是很奇怪？」\n「我不太会说好听的话……」她的声音闷闷的，「但我是真的，很想留住你。」"},{"maxHp":5,"text":"「可是我一想到你在别人的直播间里，我就……我就唱不下去呀。」她吸了吸鼻子，「对不起，我是不是很奇怪？」\n「如果……如果你其实没有那么多话想跟我说，也没关系的。」"}]},{"id":"c6","scene":2,"spr":1,"who":"綾Lune","text":"「那你呢？」她沉默了很久，声音轻得像怕惊动什么，「你要怎么选。」","choices":[{"text":"把心意说开，认真面对她","hp":0,"route":"talk","next":"route_talk_1"},{"text":"答应她：以后只来你的直播间","hp":0,"route":"stay","next":"route_stay_1"},{"text":"说一句抱歉，然后退出这场纠缠","hp":0,"route":"flee","next":"route_flee_1"}]},{"id":"route_talk_1","scene":2,"spr":0,"who":"","text":"你深吸一口气，把藏了很久的话一句一句说出口。\n屏幕那头安静得能听见电流的细响。","next":"route_talk_2","variants":[{"minHp":10,"text":"你深吸一口气，把藏了很久的话一句一句说出口。\n屏幕那头安静得能听见电流的细响。\n说到一半你停了停，怕自己说得太多。"},{"maxHp":5,"text":"你深吸一口气，把藏了很久的话一句一句说出口。\n屏幕那头安静得能听见电流的细响。\n话一出口，你就有点后悔——她好像比你更先一步低下了头。"}],"cg":"assets/cg_vod_5.jpg"},{"id":"route_talk_2","scene":2,"spr":1,"who":"綾Lune","text":"「……你说真的呀？」她的声音有一点发抖，\n「我、我一直以为，只有我一个人在偷偷喜欢呢。」\n她顿了顿，又轻轻补了一句：「这次……换我先说，好不好？」","next":"__ending__","variants":[{"minHp":13,"text":"「……你说真的呀？」她的声音有一点发抖，\n「我、我一直以为，只有我一个人在偷偷喜欢呢。」\n她顿了顿，又轻轻补了一句：「这次……换我先说，好不好？」\n她说着说着，声音越来越小，最后小声补了一句：「……不许笑我。」"}]},{"id":"route_stay_1","scene":2,"spr":0,"who":"","text":"你说，以后只来她的直播间。\n她愣了很长一会儿，然后终于笑起来，眼睛弯弯的。","next":"route_stay_2","variants":[{"minHp":10,"text":"你说，以后只来她的直播间。\n她愣了很长一会儿，然后终于笑起来，眼睛弯弯的。\n你说这话的时候，自己也有点意外。"},{"maxHp":5,"text":"你说，以后只来她的直播间。\n她愣了很长一会儿，然后终于笑起来，眼睛弯弯的。\n她笑了，可你分不清那是开心，还是终于松了一口气。"}],"cg":"assets/cg_vod_6.jpg"},{"id":"route_stay_2","scene":2,"spr":1,"who":"綾Lune","text":"「那说好了哦。」她伸出小指，对着镜头晃了晃，\n「拉钩。骗人的话……我会难过的呀。」\n直播结束后，她把拉过钩的那只手贴在胸口，很久都没有放下。","next":"__ending__","variants":[{"minHp":13,"text":"「那说好了哦。」她伸出小指，对着镜头晃了晃，\n「拉钩。骗人的话……我会难过的呀。」\n直播结束后，她把拉过钩的那只手贴在胸口，很久都没有放下。\n她偷偷把这一晚的录播存了下来，文件名是「不能说的今天」。"}]},{"id":"route_flee_1","scene":2,"spr":0,"who":"","text":"你打下一句\"抱歉\"，然后按灭了屏幕。\n黑暗里，那轮细细的月亮还亮着。","next":"route_flee_2","variants":[{"minHp":10,"text":"你打下一句\"抱歉\"，然后按灭了屏幕。\n黑暗里，那轮细细的月亮还亮着。\n按灭之前，你看见她的头像还亮着，输入框亮了一下，又暗下去。"},{"maxHp":5,"text":"你打下一句\"抱歉\"，然后按灭了屏幕。\n黑暗里，那轮细细的月亮还亮着。\n你盯着黑掉的屏幕看了很久，才想起该把手机放下。"}],"cg":"assets/cg_vod_2.jpg"},{"id":"route_flee_2","scene":2,"spr":0,"who":"","text":"后来你换了一个新账号。\n她的直播间还是深夜亮着灯，只是你再也没有点进去过。\n再后来，你习惯了新的深夜。","next":"__ending__","variants":[{"minHp":10,"text":"后来你换了一个新账号。\n她的直播间还是深夜亮着灯，只是你再也没有点进去过。\n再后来，你习惯了新的深夜。\n后半夜，你收到她发来的一条语音。只有三秒，是她在轻轻哼那首没唱完的歌。"}]},{"id":"__ending__","final":true}]</script>
 <script>
 (function(){
   'use strict';
@@ -544,10 +548,12 @@ img{user-select:none}
     { id: 'wedding', name: '婚纱 · 结局' },
     { id: 'cg_vod_1', name: '直播画面 · 微笑' },
     { id: 'cg_vod_2', name: '直播画面 · 闭眼' },
-    { id: 'cg_vod_3', name: '直播画面 · 凝视' },
+    { id: 'cg_vod_3', name: '直播画面 · 低眸' },
     { id: 'cg_vod_4', name: '直播画面 · 抬眸' },
-    { id: 'cg_vod_5', name: '直播画面 · 温柔' },
+    { id: 'cg_vod_5', name: '直播画面 · 花影' },
     { id: 'cg_vod_6', name: '直播画面 · 浅笑' },
+    { id: 'cg_vod_7', name: '直播画面 · 沉静' },
+    { id: 'cg_vod_8', name: '直播画面 · 静听' },
     { id: 'emoji_smile', name: '表情 · 微笑', emoji: true },
     { id: 'emoji_shy', name: '表情 · 害羞', emoji: true },
     { id: 'emoji_laugh', name: '表情 · 爆笑', emoji: true },
